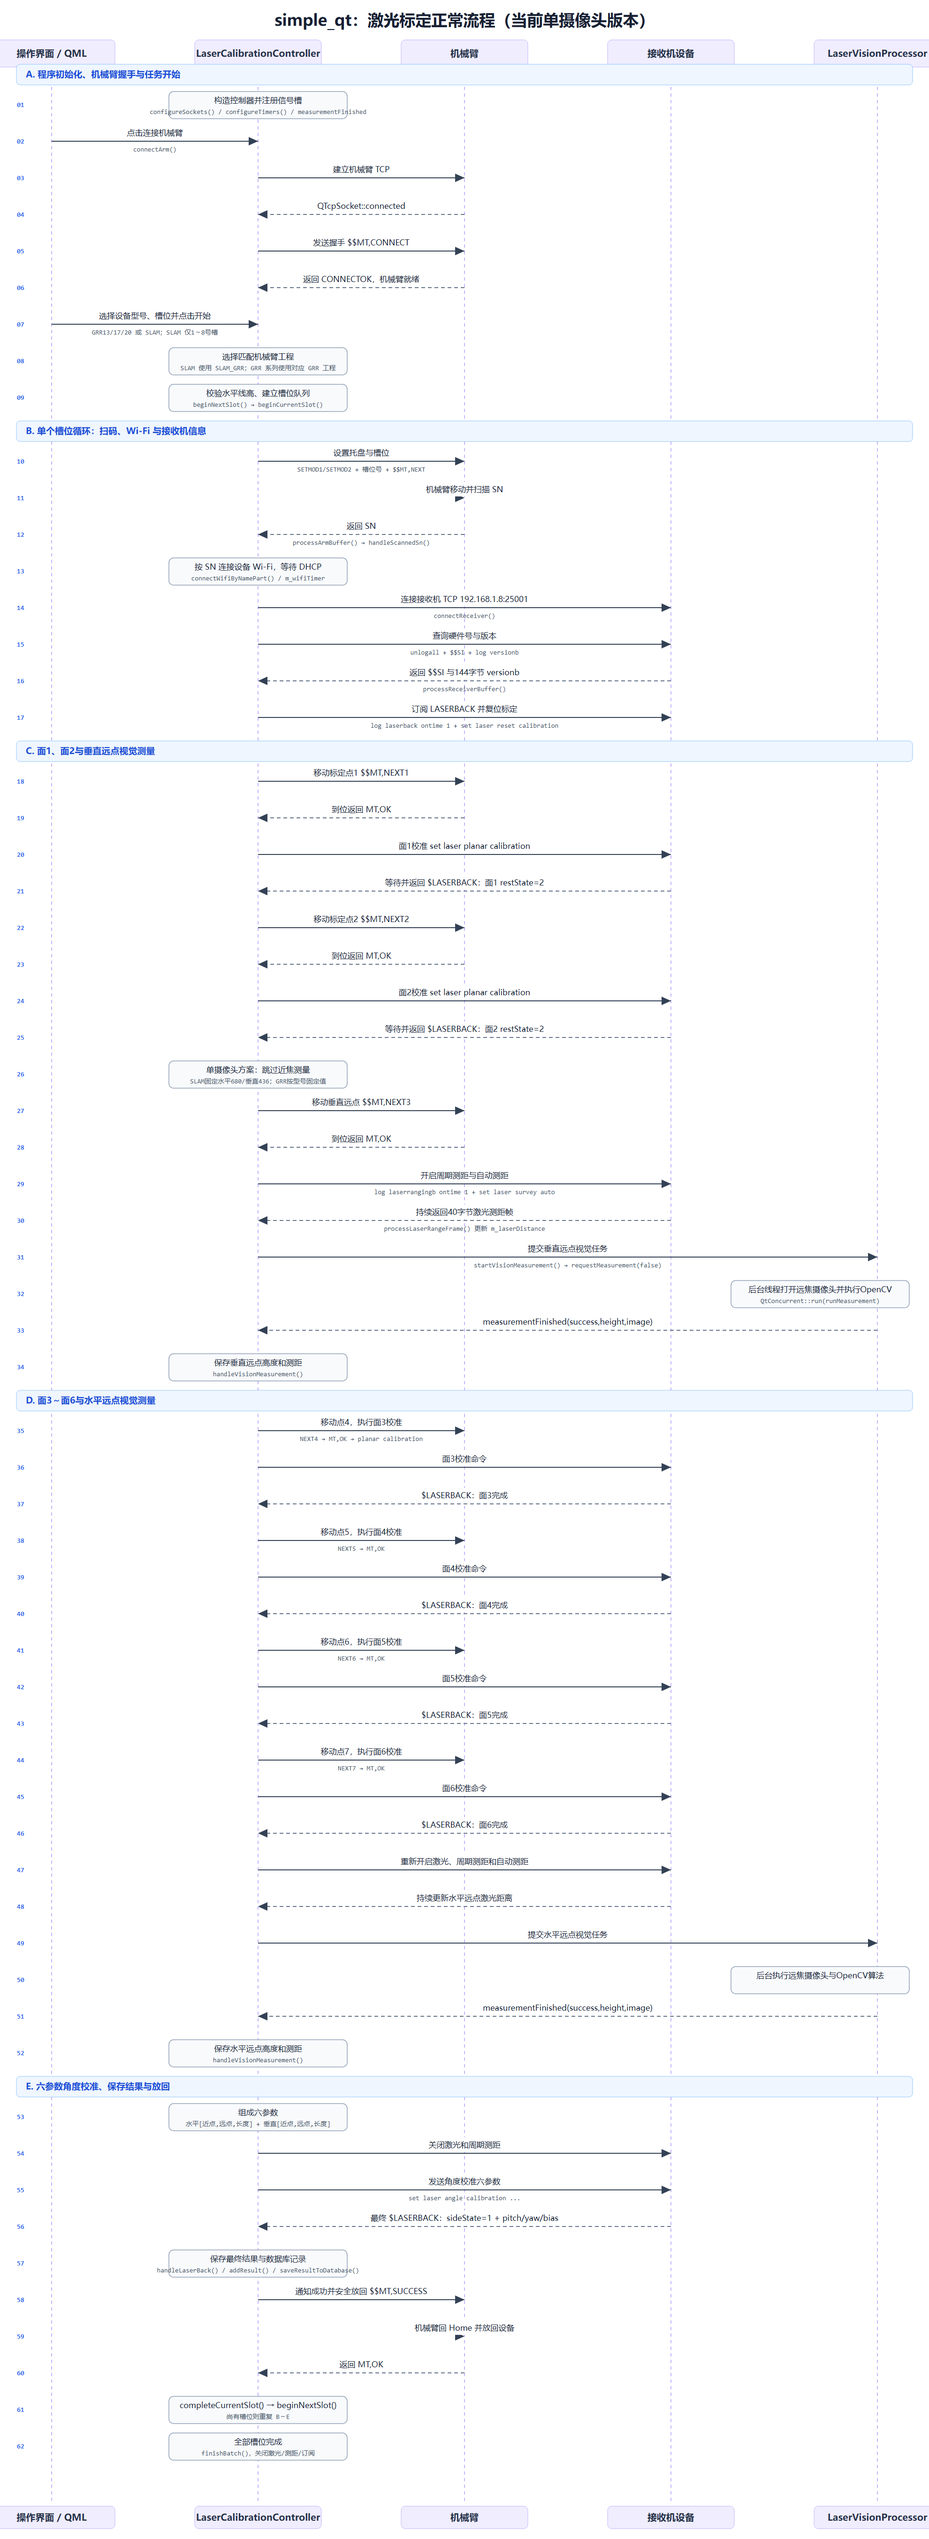
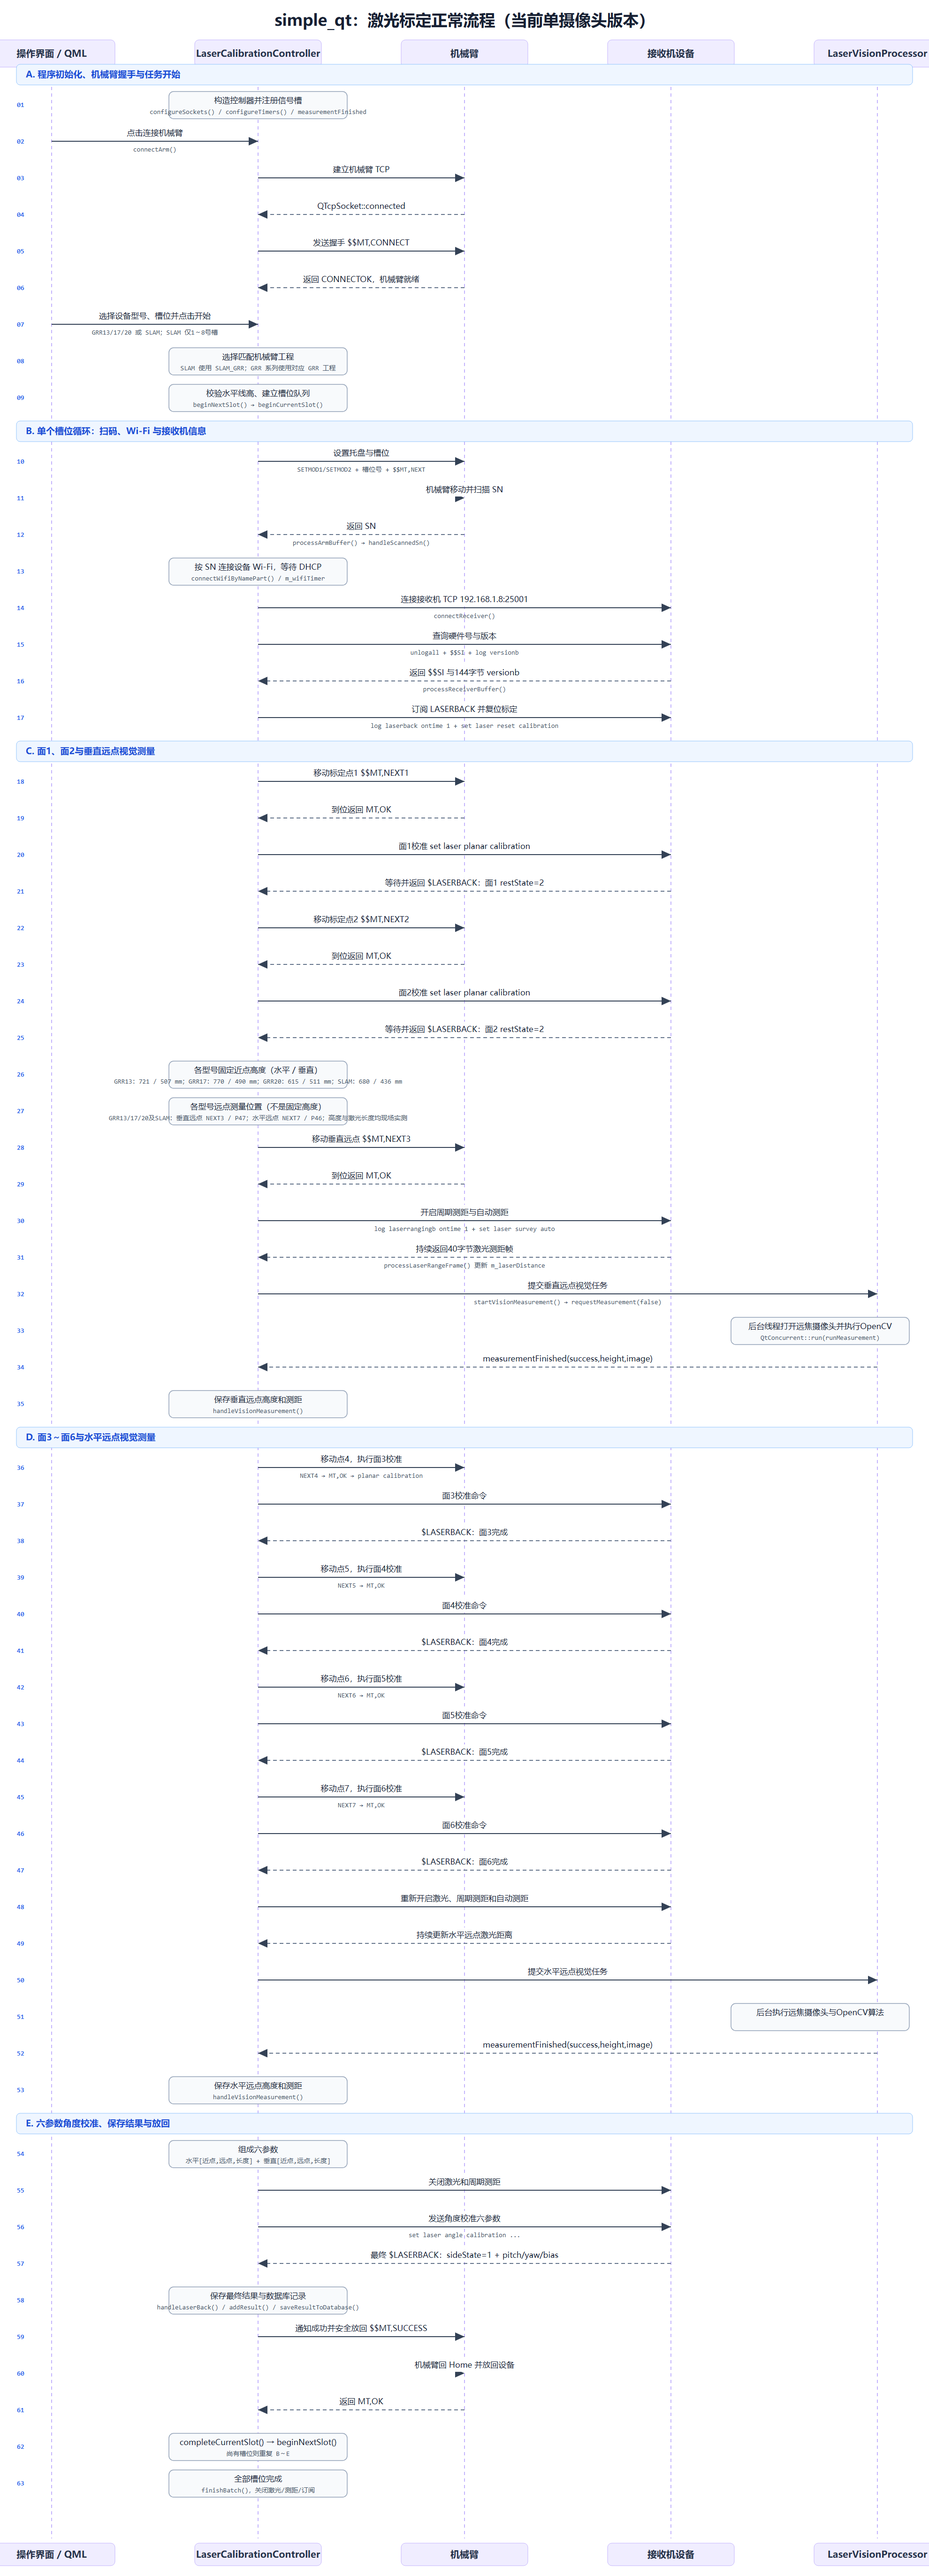
Document laser calibration points by model

diff --git a/docs/simple_qt与SLAM_GRR_激光标定开发说明手册.md b/docs/simple_qt与SLAM_GRR_激光标定开发说明手册.md
@@ -86,7 +86,7 @@ sequenceDiagram
     A-->>H: MT,OK
 ```
 
-时序图只保留设备、上位机和机械臂三类参与者。USB 摄像头、Wi-Fi、数据库均属于上位机内部资源，因此摄像头采集与 OpenCV 计算用 `H->>H` 表示，不再单列生命线。
+
 
 ## 4. 激光状态机
 
@@ -175,7 +175,16 @@ stateDiagram-v2
 5. `Vf`：垂直远点高度。
 6. `Vl`：垂直远点激光长度。
 
-当前流程只实测两组远点，近点使用固定值。
+当前流程只实测两组远点，近点使用固定值。各型号实际使用的近点和远点如下：
+
+| 设备型号 | 固定水平近点 | 固定垂直近点 | 垂直远点位置 | 水平远点位置 | 远点参数来源 |
+| --- | ---: | ---: | --- | --- | --- |
+| GRR13 | 721 mm | 507 mm | `NEXT3 / P47` | `NEXT7 / P46` | 远焦视觉实时测量高度，同时读取激光测距 |
+| GRR17 | 770 mm | 490 mm | `NEXT3 / P47` | `NEXT7 / P46` | 远焦视觉实时测量高度，同时读取激光测距 |
+| GRR20 | 615 mm | 511 mm | `NEXT3 / P47` | `NEXT7 / P46` | 远焦视觉实时测量高度，同时读取激光测距 |
+| SLAM | 680 mm | 436 mm | `NEXT3 / P47` | `NEXT7 / P46` | 远焦视觉实时测量高度，同时读取激光测距 |
+
+这里的 `P47`、`P46` 是各型号所用机械臂工程中的点位名称。GRR 系列应加载对应的 GRR 机械臂工程，SLAM 应加载 `SLAM_GRR`；因此点名相同不代表四种设备共用完全相同的关节坐标。远点高度和远点激光长度不是固定常量，不能用流程图中的点位名称代替现场测量值。
 
 ## 7. 接收机二进制报文
 
